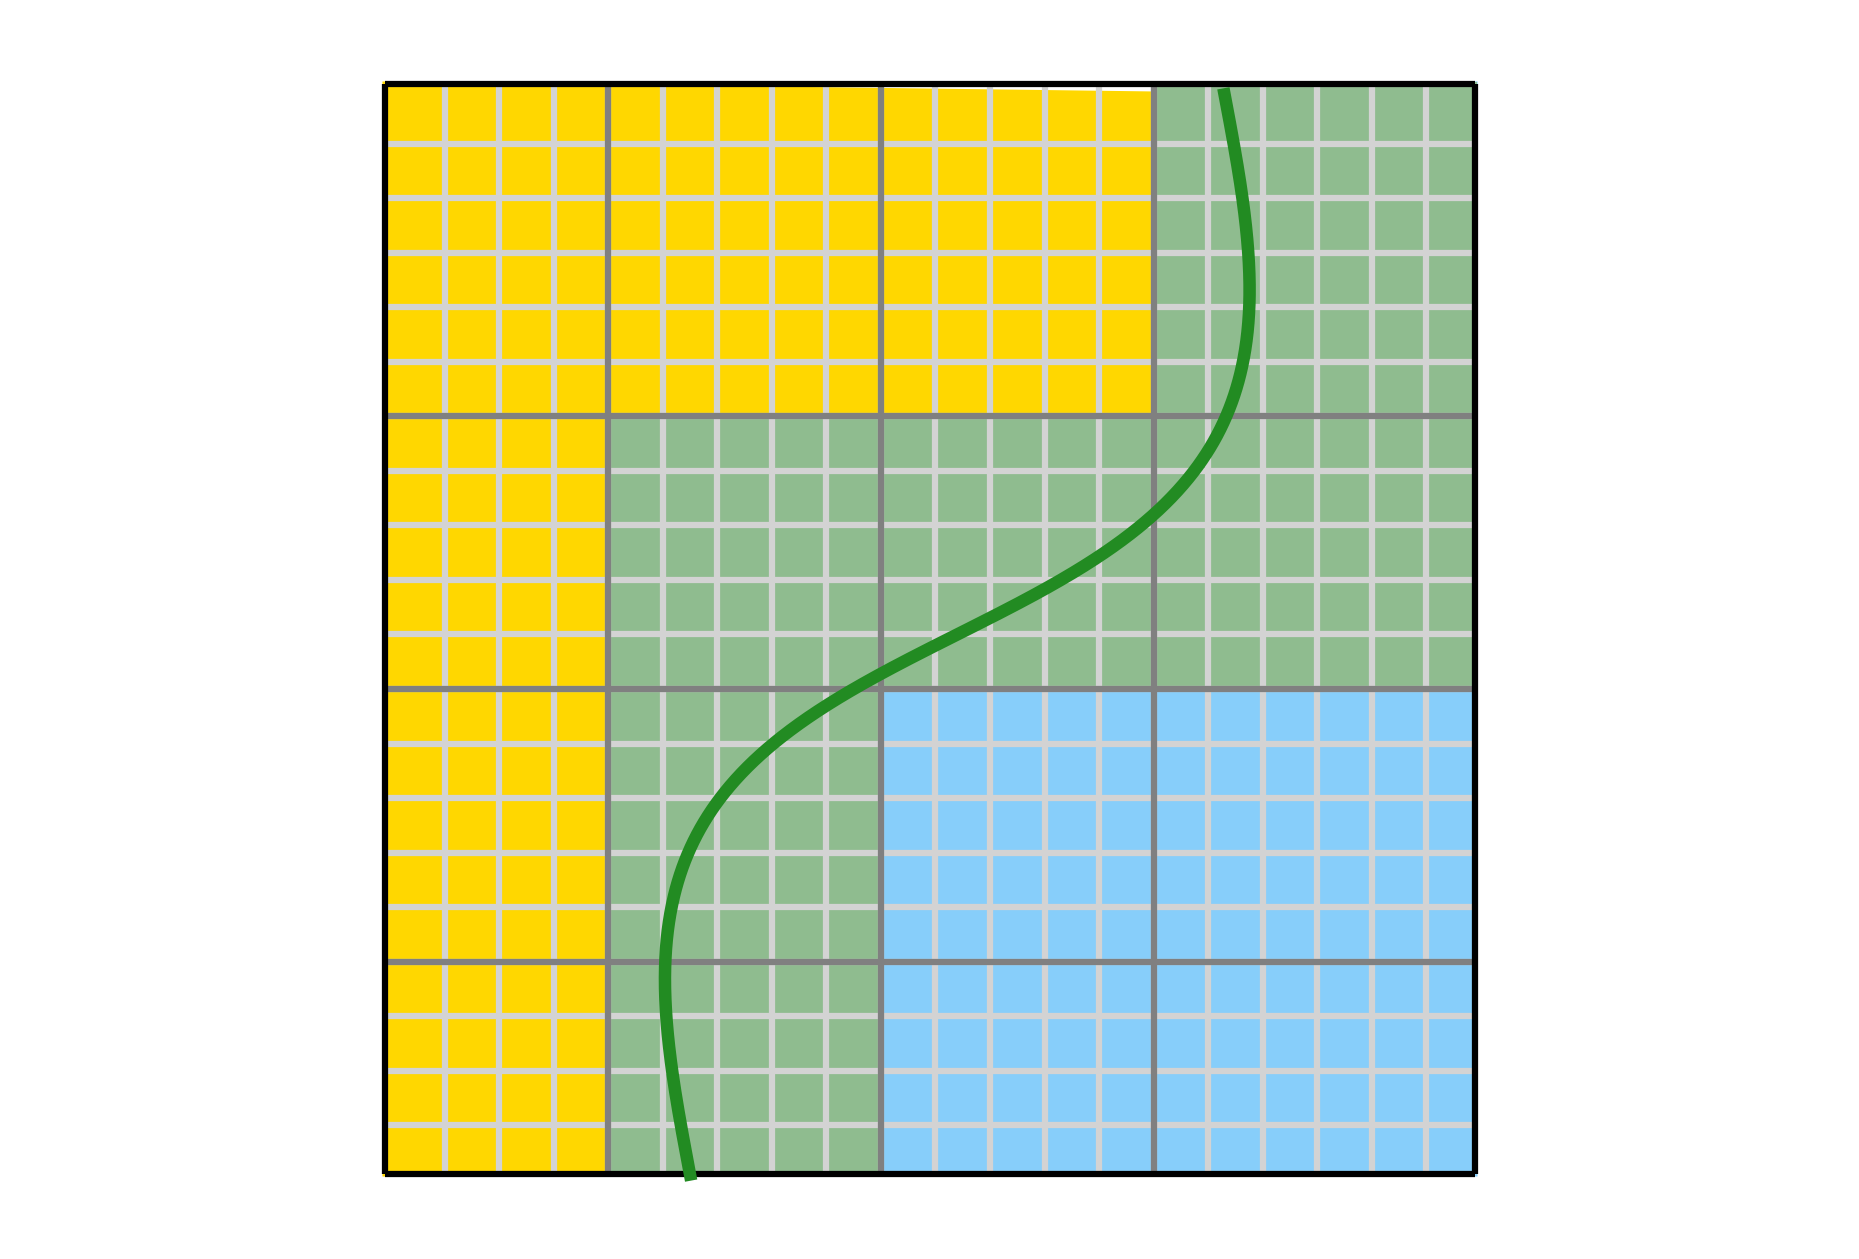
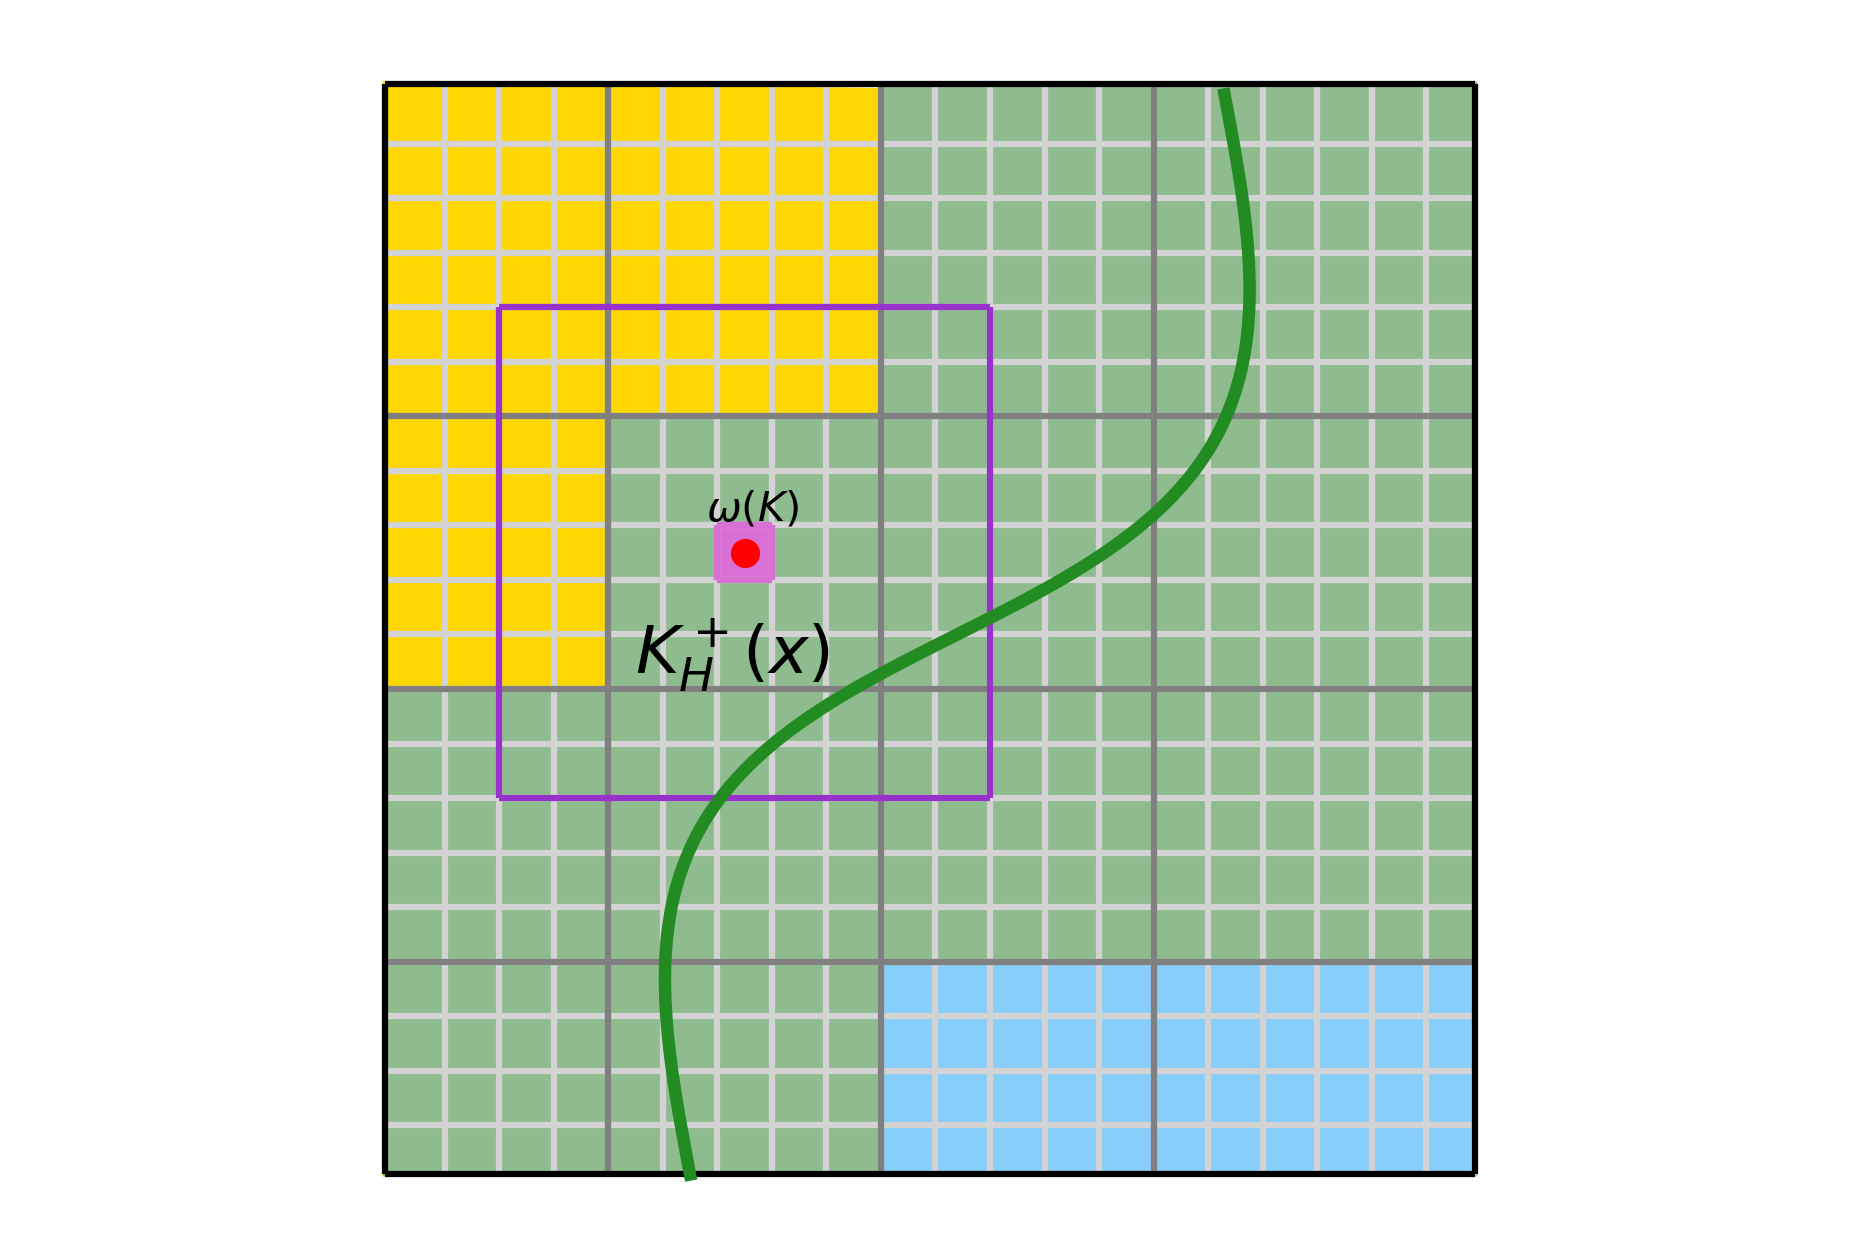
added classified mark interface y's

Changed region(s): [[0.1872, 0.2478, 0.8112, 0.9293], [0.2808, 0.062, 0.624, 0.4647], [0.3744, 0.3717, 0.4368, 0.4647]]

diff --git a/mesh.py b/mesh.py
@@ -27,6 +27,8 @@ class Mesh_z():
     def Generate_mesh(self,if_merge):
         x_s = self.z[0]+np.arange(self.nx0,self.nx1)*self.H
         y_s = self.z[1]+np.arange(self.ny0,self.ny1)*self.H
+        self.x_s = x_s
+        self.y_s = y_s
         self.x_c, self.y_c = np.meshgrid(x_s , y_s)
         if((x_s[0]- self.x0)<0.5*self.H):
             self.x_mesh = x_s + 0.5*self.H
@@ -66,10 +68,11 @@ class Mesh_z():
             
         return center_x,center_y
         
-    def blocks_cross_gamma(self,gamma_check,k,He):
+    def blocks_cross_gamma(self,gamma_check,k,He,color = 'darkseagreen'):
         n = np.shape(self.x_mesh_f)[0]
         m = np.shape(self.y_mesh_f)[0]
         self.blocks = {}
+        self.gamma_blocks = {}
         count =0
         for i in range (n-1):
             for j in range(m-1):
@@ -94,10 +97,41 @@ class Mesh_z():
                 pts_y = [y0,y0,y1,y1]
                 pts_x_K = [x0K,x1K,x1K,x0K]
                 pts_y_K = [y0K,y0K,y1K,y1K]
-                self.blocks[count] ={'x':pts_x, 'y': pts_y}
-                
+                self.blocks[count] ={'x':pts_x_K, 'y': pts_y_K, 'x_c':self.x_s[i],'y_c':self.y_s[j] }
                 if(gamma_check(x0,x1,y0,y1)):
-                    plt.fill(pts_x_K, pts_y_K,color = 'darkseagreen')
+                    self.gamma_blocks[count] ={'x':pts_x_K, 'y': pts_y_K, 'x_c':self.x_s[i],'y_c':self.y_s[j]}
+                    plt.fill(pts_x_K, pts_y_K,color = color)
+                count = count +1
+        
+
+    def block_side(self,which_side,coarse_blocks):
+        for block in self.blocks:
+            block_center_x = self.blocks[block]['x_c']
+            block_center_y = self.blocks[block]['y_c']
+            for c_block in coarse_blocks:
+                x_0 = coarse_blocks[c_block]['x'][0]
+                x_1 = coarse_blocks[c_block]['x'][1]
+                y_0 = coarse_blocks[c_block]['y'][0]
+                y_1 = coarse_blocks[c_block]['y'][2]
+                if(block_center_x<x_1 and block_center_x>x_0 and block_center_y>y_0 and block_center_y<y_1):
+                    plt.plot(block_center_x,block_center_y,marker = '.',color = 'green',linewidth = 0.3)
+                    break
+                
+        for block in self.gamma_blocks:
+            block_center_x = self.gamma_blocks[block]['x_c']
+            block_center_y = self.gamma_blocks[block]['y_c']
+
+            if which_side(block_center_x,block_center_y):
+                plt.fill(self.gamma_blocks[block]['x'], self.gamma_blocks[block]['y'],color = 'cornsilk')
+                plt.plot(block_center_x,block_center_y,marker = '.',color = 'orange',linewidth = 0.3)
+
+            else:
+                plt.fill(self.gamma_blocks[block]['x'], self.gamma_blocks[block]['y'],color = 'lightblue')
+                plt.plot(block_center_x,block_center_y,marker = '.',color = 'blue',linewidth = 0.3)
+                
+        
+            
+                
                     
                     
             

diff --git a/plot_mesh.py b/plot_mesh.py
@@ -28,6 +28,7 @@ if __name__ == '__main__':
    y1=1
    H_ep =0.05
    H =0.25
+   oversample_layer = 2
    print("Plotting a UnitSquareMesh")
    fig = plt.figure()
    ax = fig.add_axes((x0, y0, x1-x0, y1-y0))
@@ -49,7 +50,7 @@ if __name__ == '__main__':
    plt.vlines(mesh.x_mesh, y0, y1,color = 'grey')
    plt.hlines(mesh.y_mesh, x0, x1,color = 'grey')
    # center_x,center_y = mesh.oversample(0,1,H_ep,2)
-   # plt.text(center_x-0.1,center_y-0.07, r'$K_H^+(x)$',fontsize=16)
+   # plt.text(center_x-0.1,center_y-0.11, r'$K_H^+(x)$',fontsize=16)
 
    #plot centers
    # plt.plot(mesh.x_c,mesh.y_c,'o',color = 'blue')
@@ -76,15 +77,17 @@ if __name__ == '__main__':
    
    sin_gamma = interface(0.28,0.0,0.77,0.99)
    sin_gamma.plot_gamma()
-   sin_gamma.fill_domain(domain_x,domain_y)
+   # sin_gamma.fill_domain(domain_x,domain_y)
    
    
-   mesh.blocks_cross_gamma(sin_gamma.check_crossing,0,H_ep)
+   mesh.blocks_cross_gamma(sin_gamma.check_crossing,oversample_layer,H_ep)
+   mesh_e.blocks_cross_gamma(sin_gamma.check_crossing,oversample_layer,H_ep,color = 'mediumseagreen')
+   mesh_e.block_side(sin_gamma.gamma_fun,mesh.gamma_blocks)
    # sin_gamma.mark_domain()
    # fig.tight_layout()
    # plt.legend(frameon=False)
    # plt.close()
-   # center_x,center_y  = mesh_e.oversample(4,11,H_ep,0,color = 'orchid',fill = True)            
+   # center_x,center_y  = mesh_e.oversample(5,10,H_ep,0,color = 'orchid',fill = True)            
    # plt.text(center_x-0.035,center_y+0.03, r'$\omega (K)$',fontsize=10)
    ax.set_axis_off()
-   plt.savefig('omega_gamma_0.png',bbox_inches='tight',transparent = True, dpi=300)
+   plt.savefig('omega_gamma_2.png',bbox_inches='tight',transparent = True, dpi=300)

diff --git a/interface.py b/interface.py
@@ -18,16 +18,18 @@ class interface():
         self.f=f
         self.center = 0.5*(np.array(self.start)+np.array(self.end))
 
-    def gamma(self,f):
+    def gamma(self):
         n2 =self.end[0]-self.start[0]
         n1 = self.start[1] - self.end[1]
         t = np.linspace(0, 1, 1000) 
-        q = 0.12*f(2*np.pi*t)
+        q = 0.12*self.f(2*np.pi*t)
         x = self.start[0] +t*n2+q*n1
         y = self.start[1] -t*n1+q*n2
+        self.n1 = n1
+        self.n2= n2
         return x,y
     def plot_gamma(self):
-        self.x,self.y = self.gamma(self.f)
+        self.x,self.y = self.gamma()
         plt.plot(self.x,self.y,color = "forestgreen",linewidth=3)
         
     def determin_sides(self,x,y):
@@ -84,6 +86,17 @@ class interface():
                 break
             
         return crossing
+    def gamma_fun(self,x,y):
+        t = self.n2*(x-self.start[0]) - self.n1*(y-self.start[1])
+        t = t/(self.n1**2 + self.n2**2)
+        value = self.start[0]+self.n2*t+self.n1*0.12*self.f(2*np.pi*t)-x
+        if value >0:
+            return True
+        return False
+    
+
+
+        
     
 
 
